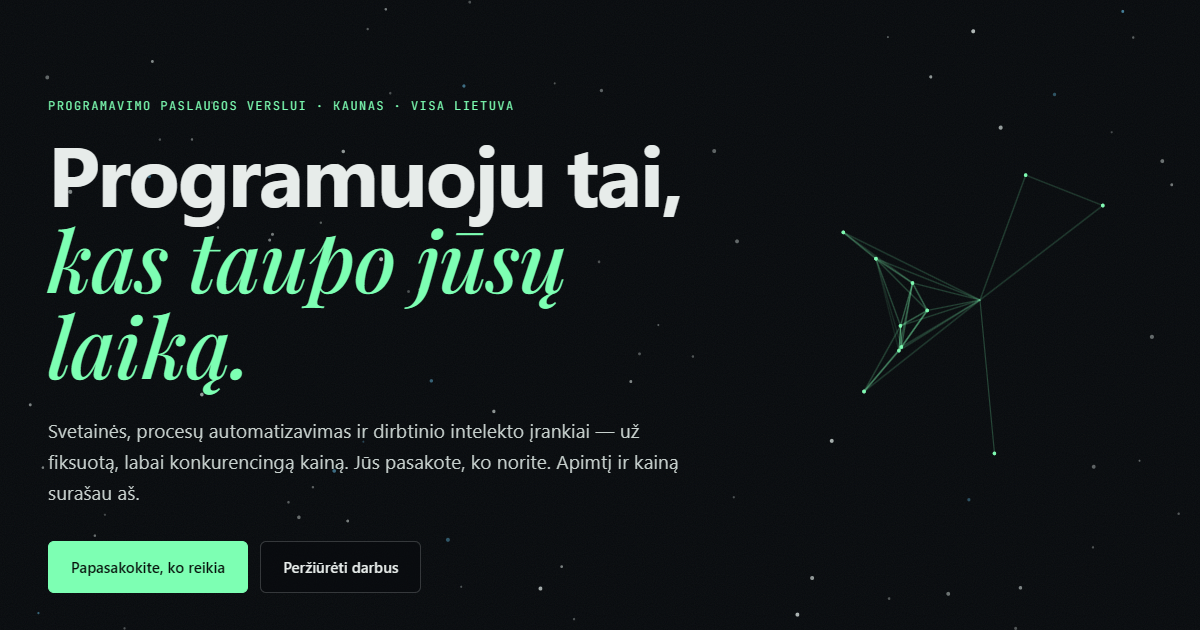
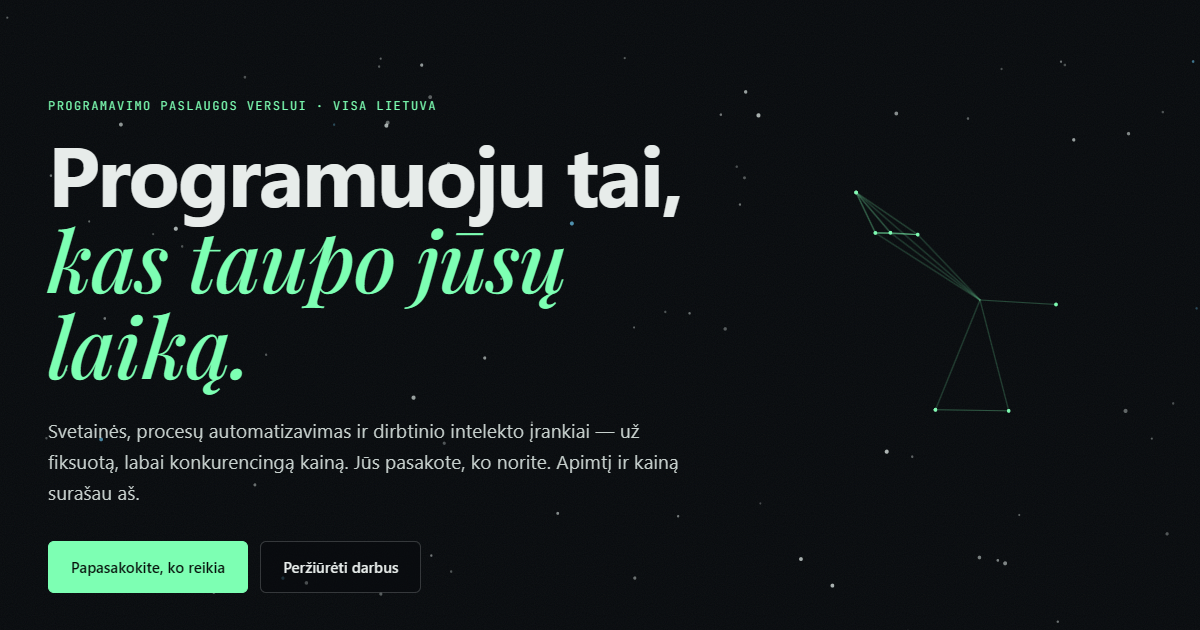
Lojalumas deploy 636f824ee 2026-09-12 12:09 (#10)

diff --git a/portfolio/ru/index.html b/portfolio/ru/index.html
@@ -24,7 +24,7 @@
   <link rel="preconnect" href="https://fonts.gstatic.com" crossorigin>
   <link rel="stylesheet" href="https://fonts.googleapis.com/css2?family=Playfair+Display:ital,wght@0,500;1,500&family=JetBrains+Mono:wght@400;500&display=swap">
   <link rel="stylesheet" href="/portfolio/style.css?v=21bdf0a1">
-  <script type="application/ld+json">{"@context":"https://schema.org","@type":"ProfessionalService","name":"Projektai777","url":"https://projektai777.github.io/portfolio/ru/","email":"projektai777.koduojam@gmail.com","description":"Создаю и улучшаю сайты, автоматизирую бизнес-процессы и внедряю инструменты искусственного интеллекта. Один разработчик, фиксированные цены, код остаётся вам.","areaServed":"LT","availableLanguage":["lt","en","ru"],"priceRange":"€€","address":{"@type":"PostalAddress","addressLocality":"Kaunas","addressCountry":"LT"},"founder":{"@type":"Person","name":"Ignas Daukša"},"knowsAbout":["web development","business process automation","AI integration","loyalty programs"]}</script>
+  <script type="application/ld+json">{"@context":"https://schema.org","@type":"ProfessionalService","name":"Projektai777","url":"https://projektai777.github.io/portfolio/ru/","email":"projektai777.koduojam@gmail.com","description":"Создаю и улучшаю сайты, автоматизирую бизнес-процессы и внедряю инструменты искусственного интеллекта. Один разработчик, фиксированные цены, код остаётся вам.","areaServed":"LT","availableLanguage":["lt","en","ru"],"priceRange":"€€","address":{"@type":"PostalAddress","addressCountry":"LT"},"founder":{"@type":"Person","name":"Ignas Daukša"},"knowsAbout":["web development","business process automation","AI integration","loyalty programs"]}</script>
 </head>
 <body>
 <a class="skip" href="#main">К содержанию</a>
@@ -47,7 +47,7 @@
 
 <main id="main">
   <section class="hero" id="top">
-    <p class="kicker mono">Услуги программирования для бизнеса · Каунас · вся Литва и удалённо</p>
+    <p class="kicker mono">Услуги программирования для бизнеса · вся Литва и удалённо</p>
     <h1><span class="h1a">Создаю то,</span><br><em class="h1b">что возвращает вам время.</em></h1>
     <p class="lead">Сайты, автоматизация процессов и инструменты ИИ по фиксированной, очень конкурентной цене. Вы говорите, чего хотите. Объём и цену описываю я.</p>
     <div class="cta-row">
@@ -56,7 +56,7 @@
     </div>
     <p class="hint mono" id="hint">Подвигайте мышью или пальцем — фон реагирует. Тему можно переключить внизу.</p>
     <div class="ticker mono" aria-hidden="true">
-      <span><i>1</i> в работе<s>·</s><i>0</i> завершено<s>·</s>0 EUR / мес.<s>·</s>Kaunas</span>
+      <span><i>1</i> в работе<s>·</s><i>0</i> завершено<s>·</s>0 EUR / мес.</span>
     </div>
   </section>
 
@@ -69,7 +69,7 @@
     <div class="svc-grid">
       <article class="svc"><span class="n">01</span><h3>Сайты: новые и улучшенные</h3><p class="how">Как я улучшаю существующий сайт: сначала осматриваю его и выписываю, что мешает клиентам и Google — медленная загрузка, неаккуратный вид на телефоне, невидимость в поиске, сложно связаться или заказать. Затем исправляю конкретные вещи, а не переделываю всё заново, если это не нужно.</p><ul><li>Новый сайт или обновление существующего (WordPress и без него)</li><li>Скорость, экраны телефонов, видимость в Google (SEO)</li><li>Формы бронирования, заявок и заказов, которые работают</li><li>Несколько языков, редактор контента, чтобы менять тексты самим</li><li>Калькуляторы цен, каталоги, функции интернет-магазина</li></ul></article>
       <article class="svc"><span class="n">02</span><h3>Автоматизация процессов</h3><p class="how">Как это работает: я соединяю инструменты, которыми вы уже пользуетесь — почту, Excel, бухгалтерскую программу, календарь, сайт — чтобы повторяющиеся шаги выполнялись сами. Человек остаётся там, где нужно решение; компьютер делает то, что повторяется каждый день.</p><ul><li>Почтовый робот: входящий счёт или заказ сам попадает в бухгалтерию или таблицу</li><li>Автоматические напоминания клиентам по SMS или e-mail (визит, оплата, срок)</li><li>Ежедневные отчёты, которые ждут в почте утром</li><li>Синхронизация данных между двумя системами (например, сайт ↔ бухгалтерия)</li><li>Генерация документов: счета, предложения, акты из одного шаблона</li></ul></article>
-      <article class="svc"><span class="n">03</span><h3>Решения на основе ИИ</h3><p class="how">Как это работает: модель ИИ настраивается отвечать по вашим материалам или извлекать данные из документов. Чувствительные данные можно обрабатывать локальной моделью на вашем компьютере — они никуда не уходят.</p><ul><li>Ассистент, отвечающий на вопросы клиентов по вашему прайсу и правилам</li><li>Счета, чертежи, резюме или заявки, считанные в аккуратную таблицу</li><li>Сортировка заявок и черновики ответов</li><li>Переводы и подготовка контента на нескольких языках</li></ul></article>
+      <article class="svc"><span class="n">03</span><h3>Решения на основе ИИ</h3><p class="how">Как это работает: модель ИИ настраивается отвечать по вашим материалам или извлекать данные из документов. Чувствительные данные можно обрабатывать локальной моделью на вашем компьютере — они никуда не уходят.</p><ul><li>Ассистент, отвечающий на вопросы клиентов по вашему прайсу и правилам</li><li>Сканирование счетов, чертежей, резюме или заявок — данные затем используются эффективнее, экономя время</li><li>Сортировка заявок и черновики ответов</li><li>Переводы и подготовка контента на нескольких языках</li></ul></article>
       <article class="svc"><span class="n">04</span><h3>Внутренние системы и инструменты</h3><p class="how">Когда готовые программы не подходят или слишком дороги — создаю инструмент точно под вашу работу. Без ежемесячных платежей, без зависимости от меня: вы получаете весь код.</p><ul><li>Отслеживание заказов и работ со статусами и уведомлениями клиенту</li><li>Панели для сотрудников, калькуляторы смет и цен</li><li>Карты лояльности в телефоне — мой собственный продукт</li><li>Самообслуживание клиентов: статус заказа, документы, бронирования</li></ul></article>
     </div>
     <div class="process" data-reveal>
@@ -101,12 +101,11 @@
       <p class="anon-note">Имя клиента публикую только после передачи и только с его согласия.</p>
     </div>
     <div class="work-group"><h3><i>◎</i> Завершено <span class="small">0</span></h3>
-      <p class="empty">Первые проекты сейчас завершаются.</p>
+      <p class="empty"></p>
     </div>
-    <div class="work-group"><h3><i>◈</i> Мои продукты и демонстрации</h3>
+    <div class="work-group"><h3><i>◈</i> Мои продукты</h3>
       <div class="cards">
-      <article class="card"><span class="cat">Мой продукт</span><h4>Карты лояльности в телефоне</h4><p>Цифровая карта штампов без приложения: клиент сканирует код у кассы, штамп записывается, подарок открывается, когда карта заполнена. Работает без сервера, 0 EUR в месяц. Живое демо.</p><div class="st"><span></span><a class="open" href="https://projektai777.github.io/?b=demo" rel="noopener" target="_blank">Открыть ↗</a></div></article>
-      <article class="card"><span class="cat">Демонстрация</span><h4>Система заказов для экспедиторской компании</h4><p>Рабочий прототип для логистического офиса: заказы с поиском и маржой, заказ перевозчику на трёх языках, почтовый робот для счетов, наглядный контроль доступа по ролям.</p><div class="st"><span></span><a class="open" href="https://projektai777.github.io/kla/demo/" rel="noopener" target="_blank">Открыть ↗</a></div></article>
+      <article class="card"><span class="cat">Мой продукт</span><h4>Карты лояльности в телефоне</h4><p>Цифровая карта штампов без приложения: клиент сканирует код у кассы, штамп записывается, подарок открывается, когда карта заполнена. Работает без сервера, 0 EUR в месяц.</p><div class="st"><span></span></div></article>
       </div>
     </div>
 
@@ -119,7 +118,7 @@
     </div>
     <div class="about-grid">
       <div class="about-text">
-        <p>Я — разработчик из Каунаса. Технологии искусственного интеллекта использую каждый день — не как модное слово, а как инструмент, позволяющий одному человеку создавать сложные продукты быстрее и предлагать их по очень конкурентной цене.</p>
+        <p>Я — разработчик. Технологии искусственного интеллекта использую каждый день — не как модное слово, а как инструмент, позволяющий одному человеку создавать сложные продукты быстрее и предлагать их по очень конкурентной цене.</p>
         <p>Нет менеджеров проектов, посредников и почасовых счетов. Вы общаетесь напрямую с тем, кто пишет код: чёткий объём, фиксированная цена и результат, который можно попробовать до окончательной оплаты.</p>
       </div>
       <ul class="facts">

diff --git a/portfolio/index.html b/portfolio/index.html
@@ -24,7 +24,7 @@
   <link rel="preconnect" href="https://fonts.gstatic.com" crossorigin>
   <link rel="stylesheet" href="https://fonts.googleapis.com/css2?family=Playfair+Display:ital,wght@0,500;1,500&family=JetBrains+Mono:wght@400;500&display=swap">
   <link rel="stylesheet" href="/portfolio/style.css?v=21bdf0a1">
-  <script type="application/ld+json">{"@context":"https://schema.org","@type":"ProfessionalService","name":"Projektai777","url":"https://projektai777.github.io/portfolio/","email":"projektai777.koduojam@gmail.com","description":"Kuriu ir tobulinu svetaines, automatizuoju įmonių procesus ir diegiu dirbtinio intelekto įrankius. Vienas programuotojas, fiksuotos kainos, kodas lieka jums.","areaServed":"LT","availableLanguage":["lt","en","ru"],"priceRange":"€€","address":{"@type":"PostalAddress","addressLocality":"Kaunas","addressCountry":"LT"},"founder":{"@type":"Person","name":"Ignas Daukša"},"knowsAbout":["web development","business process automation","AI integration","loyalty programs"]}</script>
+  <script type="application/ld+json">{"@context":"https://schema.org","@type":"ProfessionalService","name":"Projektai777","url":"https://projektai777.github.io/portfolio/","email":"projektai777.koduojam@gmail.com","description":"Kuriu ir tobulinu svetaines, automatizuoju įmonių procesus ir diegiu dirbtinio intelekto įrankius. Vienas programuotojas, fiksuotos kainos, kodas lieka jums.","areaServed":"LT","availableLanguage":["lt","en","ru"],"priceRange":"€€","address":{"@type":"PostalAddress","addressCountry":"LT"},"founder":{"@type":"Person","name":"Ignas Daukša"},"knowsAbout":["web development","business process automation","AI integration","loyalty programs"]}</script>
 </head>
 <body>
 <a class="skip" href="#main">Pereiti prie turinio</a>
@@ -47,7 +47,7 @@
 
 <main id="main">
   <section class="hero" id="top">
-    <p class="kicker mono">Programavimo paslaugos verslui · Kaunas · visa Lietuva</p>
+    <p class="kicker mono">Programavimo paslaugos verslui · visa Lietuva</p>
     <h1><span class="h1a">Programuoju tai,</span><br><em class="h1b">kas taupo jūsų laiką.</em></h1>
     <p class="lead">Svetainės, procesų automatizavimas ir dirbtinio intelekto įrankiai — už fiksuotą, labai konkurencingą kainą. Jūs pasakote, ko norite. Apimtį ir kainą surašau aš.</p>
     <div class="cta-row">
@@ -56,7 +56,7 @@
     </div>
     <p class="hint mono" id="hint">Pajudinkite pelę arba pirštą — fonas reaguoja. Apačioje galite perjungti temą.</p>
     <div class="ticker mono" aria-hidden="true">
-      <span><i>1</i> vykdoma<s>·</s><i>0</i> baigta<s>·</s>0 EUR / mėn.<s>·</s>Kaunas</span>
+      <span><i>1</i> vykdoma<s>·</s><i>0</i> baigta<s>·</s>0 EUR / mėn.</span>
     </div>
   </section>
 
@@ -69,7 +69,7 @@
     <div class="svc-grid">
       <article class="svc"><span class="n">01</span><h3>Svetainių kūrimas ir tobulinimas</h3><p class="how">Kaip tobulinu esamą svetainę: pirmiausia ją peržiūriu ir surašau, kas trukdo klientams ir Google — lėtas krovimas, netvarkingas vaizdas telefone, nerandama paieškoje, sunku susisiekti ar užsisakyti. Tada taisau konkrečius dalykus, o ne perdarau viską iš naujo, jei to nereikia.</p><ul><li>Nauja svetainė arba esamos atnaujinimas (WordPress ir be jo)</li><li>Greitis, telefonų ekranai, matomumas Google (SEO)</li><li>Rezervacijų, užklausų ir užsakymų formos, kurios veikia</li><li>Kelios kalbos, turinio redaktorius, kad keistumėte tekstus patys</li><li>Kainų skaičiuoklės, katalogai, e-parduotuvės funkcijos</li></ul></article>
       <article class="svc"><span class="n">02</span><h3>Procesų automatizavimas</h3><p class="how">Kaip tai veikia: sujungiu įrankius, kuriuos jau naudojate — el. paštą, Excel, buhalterinę programą, kalendorių, svetainę — kad pasikartojantys žingsniai vyktų patys. Žmogus lieka ten, kur reikia sprendimo; kompiuteris daro tai, kas kartojasi kasdien.</p><ul><li>Pašto robotas: atėjusi sąskaita ar užsakymas pats keliauja į apskaitą ar lentelę</li><li>Automatiniai priminimai klientams SMS ar el. paštu (vizitas, mokėjimas, terminas)</li><li>Kasdienės ataskaitos, kurios laukia pašte ryte</li><li>Duomenų sinchronizacija tarp dviejų sistemų (pvz., svetainė ↔ apskaita)</li><li>Dokumentų generavimas: sąskaitos, pasiūlymai, aktai iš vieno šablono</li></ul></article>
-      <article class="svc"><span class="n">03</span><h3>Dirbtinio intelekto sprendimai</h3><p class="how">Kaip tai veikia: DI modelis apmokomas atsakinėti iš jūsų medžiagos ar ištraukti duomenis iš dokumentų. Jautrius duomenis galima apdoroti vietiniu modeliu jūsų kompiuteryje — jie niekur neišsiunčiami.</p><ul><li>Asistentas, kuris atsako į klientų klausimus pagal jūsų kainoraštį ir taisykles</li><li>Sąskaitų, brėžinių, CV ar užklausų nuskaitymas į tvarkingą lentelę</li><li>Užklausų rūšiavimas ir atsakymų juodraščiai</li><li>Vertimai ir turinio ruošimas keliomis kalbomis</li></ul></article>
+      <article class="svc"><span class="n">03</span><h3>Dirbtinio intelekto sprendimai</h3><p class="how">Kaip tai veikia: DI modelis apmokomas atsakinėti iš jūsų medžiagos ar ištraukti duomenis iš dokumentų. Jautrius duomenis galima apdoroti vietiniu modeliu jūsų kompiuteryje — jie niekur neišsiunčiami.</p><ul><li>Asistentas, kuris atsako į klientų klausimus pagal jūsų kainoraštį ir taisykles</li><li>Sąskaitų, brėžinių, CV ar užklausų nuskaitymas — duomenys panaudojami efektyviau, taupant laiką</li><li>Užklausų rūšiavimas ir atsakymų juodraščiai</li><li>Vertimai ir turinio ruošimas keliomis kalbomis</li></ul></article>
       <article class="svc"><span class="n">04</span><h3>Vidinės sistemos ir įrankiai</h3><p class="how">Kai gatavos programos netinka arba per brangios — sukuriu tiksliai jūsų darbui skirtą įrankį. Be mėnesinių mokesčių, be priklausomybės nuo manęs: gaunate visą kodą.</p><ul><li>Užsakymų ir darbų sekimas su būsenomis ir pranešimais klientui</li><li>Darbuotojų pultai, sąmatų ir kainų skaičiuoklės</li><li>Lojalumo kortelės telefone — mano paties produktas</li><li>Klientų savitarna: užsakymo būsena, dokumentai, rezervacijos</li></ul></article>
     </div>
     <div class="process" data-reveal>
@@ -101,12 +101,11 @@
       <p class="anon-note">Klientų vardus skelbiu tik po perdavimo ir tik jiems sutikus.</p>
     </div>
     <div class="work-group"><h3><i>◎</i> Baigta <span class="small">0</span></h3>
-      <p class="empty">Pirmieji projektai šiuo metu baigiami.</p>
+      <p class="empty"></p>
     </div>
-    <div class="work-group"><h3><i>◈</i> Mano produktai ir demonstracijos</h3>
+    <div class="work-group"><h3><i>◈</i> Mano produktai</h3>
       <div class="cards">
-      <article class="card"><span class="cat">Mano produktas</span><h4>Lojalumo kortelės telefone</h4><p>Skaitmeninė antspaudų kortelė be programėlės: klientas nuskenuoja kodą prie kasos, antspaudas įrašomas, dovana – kai surenka. Veikia be serverio, 0 EUR per mėnesį. Gyvas demo.</p><div class="st"><span></span><a class="open" href="https://projektai777.github.io/?b=demo" rel="noopener" target="_blank">Atidaryti ↗</a></div></article>
-      <article class="card"><span class="cat">Demonstracija</span><h4>Ekspedicijos įmonės užsakymų sistema</h4><p>Veikiantis prototipas logistikos biurui: užsakymai su paieška ir marža, vežėjo užsakymas trimis kalbomis, pašto robotas sąskaitoms, matoma prieigos kontrolė pagal vaidmenis.</p><div class="st"><span></span><a class="open" href="https://projektai777.github.io/kla/demo/" rel="noopener" target="_blank">Atidaryti ↗</a></div></article>
+      <article class="card"><span class="cat">Mano produktas</span><h4>Lojalumo kortelės telefone</h4><p>Skaitmeninė antspaudų kortelė be programėlės: klientas nuskenuoja kodą prie kasos, antspaudas įrašomas, dovana – kai surenka. Veikia be serverio, 0 EUR per mėnesį.</p><div class="st"><span></span></div></article>
       </div>
     </div>
 
@@ -119,7 +118,7 @@
     </div>
     <div class="about-grid">
       <div class="about-text">
-        <p>Esu programuotojas iš Kauno. Dirbtinio intelekto technologijas naudoju kasdien — ne kaip madingą žodį, o kaip įrankį, leidžiantį vienam žmogui sukurti sudėtingus produktus greičiau ir pasiūlyti juos už labai konkurencingą kainą.</p>
+        <p>Esu programuotojas. Dirbtinio intelekto technologijas naudoju kasdien — ne kaip madingą žodį, o kaip įrankį, leidžiantį vienam žmogui sukurti sudėtingus produktus greičiau ir pasiūlyti juos už labai konkurencingą kainą.</p>
         <p>Nėra projektų vadovų, tarpininkų ir valandinių sąskaitų. Kalbatės tiesiogiai su tuo, kas rašo kodą: aiški apimtis, fiksuota kaina ir rezultatas, kurį galite pačiupinėti dar iki galutinio atsiskaitymo.</p>
       </div>
       <ul class="facts">

diff --git a/portfolio/en/index.html b/portfolio/en/index.html
@@ -24,7 +24,7 @@
   <link rel="preconnect" href="https://fonts.gstatic.com" crossorigin>
   <link rel="stylesheet" href="https://fonts.googleapis.com/css2?family=Playfair+Display:ital,wght@0,500;1,500&family=JetBrains+Mono:wght@400;500&display=swap">
   <link rel="stylesheet" href="/portfolio/style.css?v=21bdf0a1">
-  <script type="application/ld+json">{"@context":"https://schema.org","@type":"ProfessionalService","name":"Projektai777","url":"https://projektai777.github.io/portfolio/en/","email":"projektai777.koduojam@gmail.com","description":"I build and improve websites, automate business processes and deploy AI tools. One developer, fixed prices, the code stays yours.","areaServed":"LT","availableLanguage":["lt","en","ru"],"priceRange":"€€","address":{"@type":"PostalAddress","addressLocality":"Kaunas","addressCountry":"LT"},"founder":{"@type":"Person","name":"Ignas Daukša"},"knowsAbout":["web development","business process automation","AI integration","loyalty programs"]}</script>
+  <script type="application/ld+json">{"@context":"https://schema.org","@type":"ProfessionalService","name":"Projektai777","url":"https://projektai777.github.io/portfolio/en/","email":"projektai777.koduojam@gmail.com","description":"I build and improve websites, automate business processes and deploy AI tools. One developer, fixed prices, the code stays yours.","areaServed":"LT","availableLanguage":["lt","en","ru"],"priceRange":"€€","address":{"@type":"PostalAddress","addressCountry":"LT"},"founder":{"@type":"Person","name":"Ignas Daukša"},"knowsAbout":["web development","business process automation","AI integration","loyalty programs"]}</script>
 </head>
 <body>
 <a class="skip" href="#main">Skip to content</a>
@@ -47,7 +47,7 @@
 
 <main id="main">
   <section class="hero" id="top">
-    <p class="kicker mono">Programming services for business · Kaunas · all of Lithuania and remote</p>
+    <p class="kicker mono">Programming services for business · all of Lithuania and remote</p>
     <h1><span class="h1a">I build the things</span><br><em class="h1b">that give you your time back.</em></h1>
     <p class="lead">Websites, process automation and AI tools at a fixed, very competitive price. You say what you want. I write the scope and the price.</p>
     <div class="cta-row">
@@ -56,7 +56,7 @@
     </div>
     <p class="hint mono" id="hint">Move the mouse or your finger — the background responds. Switch the theme at the bottom.</p>
     <div class="ticker mono" aria-hidden="true">
-      <span><i>1</i> in progress<s>·</s><i>0</i> finished<s>·</s>0 EUR / month<s>·</s>Kaunas</span>
+      <span><i>1</i> in progress<s>·</s><i>0</i> finished<s>·</s>0 EUR / month</span>
     </div>
   </section>
 
@@ -69,7 +69,7 @@
     <div class="svc-grid">
       <article class="svc"><span class="n">01</span><h3>Websites: new and improved</h3><p class="how">How I improve an existing site: first I review it and list what gets in the way of customers and Google — slow loading, a messy phone layout, invisible in search, hard to contact or order. Then I fix the specific things, rather than rebuilding everything when that is not needed.</p><ul><li>A new site or an upgrade of the one you have (WordPress or not)</li><li>Speed, phone screens, visibility in Google (SEO)</li><li>Booking, inquiry and order forms that actually work</li><li>Several languages, a content editor so you change texts yourself</li><li>Price calculators, catalogues, e-shop features</li></ul></article>
       <article class="svc"><span class="n">02</span><h3>Process automation</h3><p class="how">How it works: I connect the tools you already use — e-mail, Excel, your accounting program, calendar, website — so the repetitive steps happen on their own. A person stays where a decision is needed; the computer does what repeats every day.</p><ul><li>A mail robot: an incoming invoice or order goes into accounting or a sheet by itself</li><li>Automatic reminders to customers by SMS or e-mail (visit, payment, deadline)</li><li>Daily reports waiting in your inbox in the morning</li><li>Data kept in sync between two systems (e.g. website ↔ accounting)</li><li>Document generation: invoices, offers, delivery reports from one template</li></ul></article>
-      <article class="svc"><span class="n">03</span><h3>AI solutions</h3><p class="how">How it works: an AI model is set up to answer from your material or to pull data out of documents. Sensitive data can be processed by a local model on your own computer — nothing leaves it.</p><ul><li>An assistant that answers customer questions from your price list and rules</li><li>Invoices, drawings, CVs or inquiries read into a clean table</li><li>Sorting inquiries and drafting replies</li><li>Translations and content in several languages</li></ul></article>
+      <article class="svc"><span class="n">03</span><h3>AI solutions</h3><p class="how">How it works: an AI model is set up to answer from your material or to pull data out of documents. Sensitive data can be processed by a local model on your own computer — nothing leaves it.</p><ul><li>An assistant that answers customer questions from your price list and rules</li><li>Invoices, drawings, CVs or inquiries scanned — the data then used more efficiently, saving time</li><li>Sorting inquiries and drafting replies</li><li>Translations and content in several languages</li></ul></article>
       <article class="svc"><span class="n">04</span><h3>Internal systems and tools</h3><p class="how">When off-the-shelf software does not fit or costs too much, I build a tool made precisely for your work. No monthly fees, no dependence on me: you get all the code.</p><ul><li>Order and job tracking with statuses and customer notifications</li><li>Staff panels, estimate and price calculators</li><li>Loyalty cards on the phone — my own product</li><li>Customer self-service: order status, documents, bookings</li></ul></article>
     </div>
     <div class="process" data-reveal>
@@ -101,12 +101,11 @@
       <p class="anon-note">I publish a client's name only after handover and only with their consent.</p>
     </div>
     <div class="work-group"><h3><i>◎</i> Finished <span class="small">0</span></h3>
-      <p class="empty">The first projects are being finished right now.</p>
+      <p class="empty"></p>
     </div>
-    <div class="work-group"><h3><i>◈</i> My products and demos</h3>
+    <div class="work-group"><h3><i>◈</i> My products</h3>
       <div class="cards">
-      <article class="card"><span class="cat">My product</span><h4>Loyalty cards on the phone</h4><p>A digital stamp card with no app to install: the customer scans a code at the till, the stamp is recorded, the reward unlocks when the card is full. Runs without a server, 0 EUR a month. Live demo.</p><div class="st"><span></span><a class="open" href="https://projektai777.github.io/?b=demo" rel="noopener" target="_blank">Open ↗</a></div></article>
-      <article class="card"><span class="cat">Demo</span><h4>Order system for a freight-forwarding office</h4><p>A working prototype for a logistics office: orders with search and margin, a carrier order in three languages, a mail robot for invoices, visible role-based access control.</p><div class="st"><span></span><a class="open" href="https://projektai777.github.io/kla/demo/" rel="noopener" target="_blank">Open ↗</a></div></article>
+      <article class="card"><span class="cat">My product</span><h4>Loyalty cards on the phone</h4><p>A digital stamp card with no app to install: the customer scans a code at the till, the stamp is recorded, the reward unlocks when the card is full. Runs without a server, 0 EUR a month.</p><div class="st"><span></span></div></article>
       </div>
     </div>
 
@@ -119,7 +118,7 @@
     </div>
     <div class="about-grid">
       <div class="about-text">
-        <p>I am a developer from Kaunas. I use artificial-intelligence technology every day — not as a buzzword but as a tool that lets one person build sophisticated products faster and offer them at a very competitive price.</p>
+        <p>I am a developer. I use artificial-intelligence technology every day — not as a buzzword but as a tool that lets one person build sophisticated products faster and offer them at a very competitive price.</p>
         <p>No project managers, no middlemen, no hourly invoices. You talk directly to the person who writes the code: a clear scope, a fixed price and a result you can try before the final payment.</p>
       </div>
       <ul class="facts">
